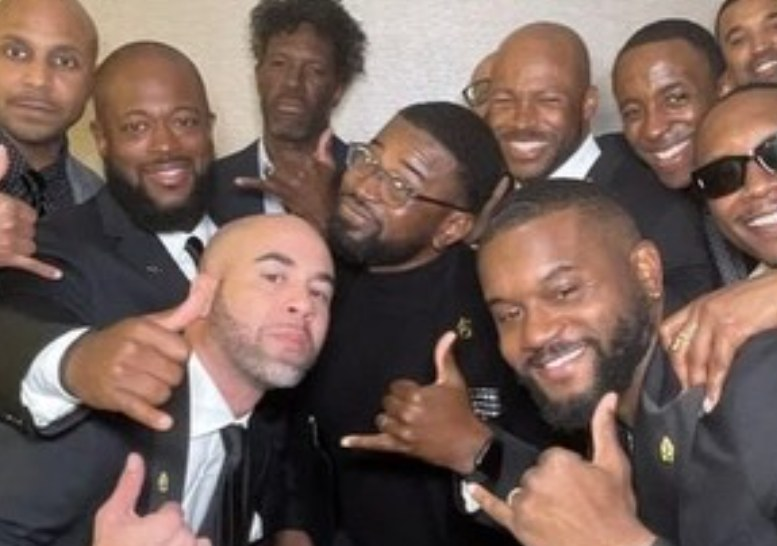
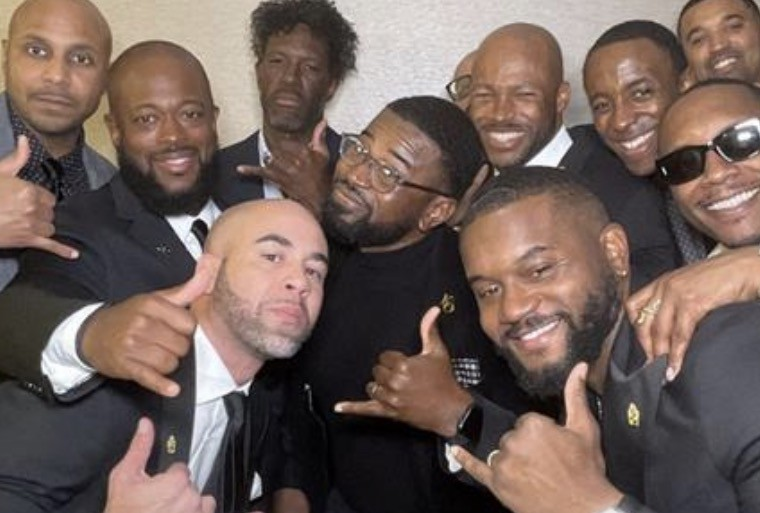
Pull Up: sharper suits photo
Claude-Session: https://claude.ai/code/session_01QyPfgghwaaj7RRocp7RZbG

diff --git a/run-home/index.html b/run-home/index.html
@@ -417,7 +417,7 @@ h1,h2,h3{font-weight:400}
         <p class="eyebrow" style="color:#2a55e5">02 · The crew</p>
         <h3 class="serif" style="font-size:clamp(48px,5vw,80px);line-height:.9">Pull Up</h3>
         <div class="crewgrid">
-          <img class="big" src="/img/pullup-suits.jpg" alt="Chauncey's crew in suits, grinning and throwing up hand signs">
+          <img class="big" src="/img/pullup-suits.jpg?v=2" alt="Chauncey's crew in suits, grinning and throwing up hand signs">
           <img src="/img/crew-street.jpg" alt="Five friends standing arm in arm on a New York street">
           <img src="/img/crew-toast.jpg" alt="A crew of men raising a toast together">
           <img src="/img/pullup-crew.jpg" alt="The crew with their luggage, heading out on a trip together">
